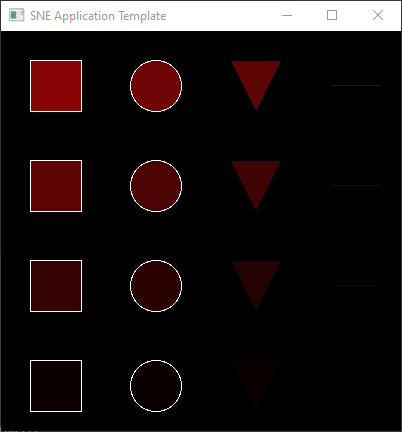
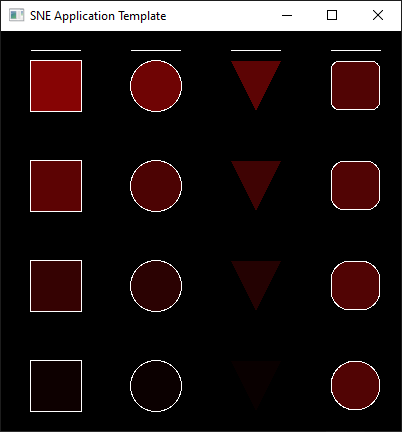
Shapes - Rounded Rectangle

diff --git a/sne-shapes.h b/sne-shapes.h
@@ -2,39 +2,6 @@
 #include "sne-pde.h"
 
 
-void fill(int r, int g, int b, int a) {
-	sf::Color color = sf::Color(r, g, b, a);
-	currentFill = color;
-}
-void fill(int r, int g, int b) {
-	sf::Color color = sf::Color(r, g, b, 255);
-	currentFill = color;
-}
-void fill(int greyValue) {
-	currentFill = sf::Color(greyValue, greyValue, greyValue, 255);
-}
-void no_fill() {
-	currentFill = sf::Color::Transparent;
-}
-
-void stroke(int r, int g, int b, int a) {
-	sf::Color color = sf::Color(r, g, b, a);
-	currentStroke = color;
-}
-void stroke(int r, int g, int b) {
-	sf::Color color = sf::Color(r, g, b, 255);
-	currentStroke = color;
-}
-void stroke(int greyValue) {
-	currentStroke = sf::Color(greyValue, greyValue, greyValue, 255);
-}
-void no_stroke() {
-	currentStroke = sf::Color::Transparent;
-}
-void stroke_weight(int stroke_weight) {
-	currentStrokeWeight = stroke_weight;
-}
-
 sf::RectangleShape r;
 void rect(double x, double y, double w, double h) {
 	r.setSize(sf::Vector2f(w, h));
@@ -44,6 +11,7 @@ void rect(double x, double y, double w, double h) {
 	r.setOutlineColor(currentStroke);
 	activeWindow->draw(r);
 }
+
 void rect(double x, double y, double w, double h, int alpha) {
 	r.setSize(sf::Vector2f(w, h));
 	r.setPosition(x, y);
@@ -52,6 +20,7 @@ void rect(double x, double y, double w, double h, int alpha) {
 	r.setOutlineColor(currentStroke);
 	activeWindow->draw(r);
 }
+
 
 sf::CircleShape c;
 void circle(double x, double y, double d) {
@@ -63,6 +32,7 @@ void circle(double x, double y, double d) {
 	c.setOutlineThickness(currentStrokeWeight);
 	activeWindow->draw(c);
 }
+
 void circle(double x, double y, double d, int alpha) {
 	c.setRadius(d / 2);
 	c.setPointCount(50);
@@ -73,8 +43,20 @@ void circle(double x, double y, double d, int alpha) {
 	activeWindow->draw(c);
 }
 
+
 vector<sf::Vertex> vertices;
+vector<sf::Vertex> vertices2;
 sf::Vertex v;
+
+sf::Vector2f vf(double x, double y) {
+	return sf::Vector2f(x, y);
+}
+
+void addVertex(double x, double y) {
+	v.position = vf(int(x), int(y));
+	vertices.push_back(v);
+}
+
 void triangle(double x1, double y1, double x2, double y2, double x3, double y3) {
 	vertices.clear();
 	v.color = currentFill;
@@ -89,6 +71,7 @@ void triangle(double x1, double y1, double x2, double y2, double x3, double y3) 
 	activeWindow->draw(&vertices[0], vertices.size(), sf::Triangles);
 	vertices.clear();
 }
+
 void triangle(double x1, double y1, double x2, double y2, double x3, double y3, int alpha) {
 	vertices.clear();
 	fill(currentFill.r, currentFill.g, currentFill.b, alpha);
@@ -104,6 +87,7 @@ void triangle(double x1, double y1, double x2, double y2, double x3, double y3, 
 	activeWindow->draw(&vertices[0], vertices.size(), sf::Triangles);
 	vertices.clear();
 }
+
 void line(double x1, double y1, double x2, double y2) {
 	vertices.clear();
 	v.color = currentFill;
@@ -116,6 +100,7 @@ void line(double x1, double y1, double x2, double y2) {
 	activeWindow->draw(&vertices[0], vertices.size(), sf::Lines);
 	vertices.clear();
 }
+
 void line(double x1, double y1, double x2, double y2, int alpha) {
 	vertices.clear();
 	fill(currentFill.r, currentFill.g, currentFill.b, alpha);
@@ -127,5 +112,87 @@ void line(double x1, double y1, double x2, double y2, int alpha) {
 	vertices.push_back(v);
 
 	activeWindow->draw(&vertices[0], vertices.size(), sf::Lines);
+	vertices.clear();
+}
+
+void roundedRectangleHelper(double x, double y, double w, double h, int r, int strokeWeight, int pointCount = 0) {
+	strokeWeight = abs(strokeWeight);
+	vertices.clear();
+	v.color = (strokeWeight != 0)? currentFill : currentStroke;
+	int cornerPointCount = (pointCount == 0)? 190 : pointCount;
+	double degreesShort = 0.18;
+	double pi = 2 * acos(0.0);
+
+	int xPos;
+	int yPos;
+	int cornerCenterX;
+	int cornerCenterY;
+	int centerX = int(x + (w / 2));
+	int centerY = int(y + (h / 2));
+	
+	// Center
+	addVertex(centerX, centerY);
+
+	// Top Right Corner
+	cornerCenterX = (x + w) - r;
+	cornerCenterY = (y + r);
+	for (double i = pi / 2 - degreesShort; i > degreesShort; i = i - (pi / 2) / cornerPointCount) {
+		xPos = cornerCenterX + abs(cos(i) * r);
+		yPos = cornerCenterY - abs(sin(i) * r);
+		addVertex(xPos - strokeWeight, yPos + strokeWeight);
+	}
+
+	// Bottom Right Corner
+	cornerCenterX = (x + w) - r;
+	cornerCenterY = (y + h) - r;
+	for (double i = 2 * pi - degreesShort; i > (3.0 / 2.0 * pi) + degreesShort; i = i - (pi / 2) / cornerPointCount) {
+		xPos = cornerCenterX + abs(cos(i) * r);
+		yPos = cornerCenterY + abs(sin(i) * r);
+		addVertex(xPos - strokeWeight, yPos - strokeWeight);
+	}
+
+	// Bottom Left Corner
+	cornerCenterX = x + r;
+	cornerCenterY = (y + h) - r;
+	for (double i = (3.0 / 2.0 * pi) - degreesShort; i > pi + degreesShort; i = i - (pi / 2) / cornerPointCount) {
+		xPos = cornerCenterX - abs(cos(i) * r);
+		yPos = cornerCenterY + abs(sin(i) * r);
+		addVertex(xPos + strokeWeight, yPos - strokeWeight);
+	}
+
+	// Top Left Corner
+	cornerCenterX = x + r;
+	cornerCenterY = y + r;
+	for (double i = pi - degreesShort; i > pi / 2 + degreesShort; i = i - (pi / 2) / cornerPointCount) {
+		xPos = cornerCenterX - abs(cos(i) * r);
+		yPos = cornerCenterY - abs(sin(i) * r);
+		addVertex(xPos + strokeWeight, yPos + strokeWeight);
+	}
+
+	// Top Right Corner
+	cornerCenterX = (x + w) - r;
+	cornerCenterY = (y + r);
+	xPos = cornerCenterX + abs(cos(pi / 2 - degreesShort) * r);
+	yPos = cornerCenterY - abs(sin(pi / 2 - degreesShort) * r);
+	addVertex(xPos - strokeWeight, yPos + strokeWeight);
+}
+
+void roundedRectangle(double x, double y, double w, double h, int r, int pointCount = 0) {
+	int shortestSide = (w < h) ? w : h;
+	r = (r * 2 < shortestSide) ? r : shortestSide / 2;
+
+	// Stroke outline
+	roundedRectangleHelper(x, y, w, h, r, 0, pointCount);
+	activeWindow->draw(&vertices[0], vertices.size(), sf::TriangleFan);
+
+	if (currentStroke == currentFill) {
+		vertices.clear();
+		return;
+	}
+
+	// Inner rounded rectangle
+	roundedRectangleHelper(x, y, w, h, r - abs(currentStrokeWeight), currentStrokeWeight, pointCount);
+	activeWindow->draw(&vertices[0], vertices.size(), sf::TriangleFan);
+
 	vertices.clear();
 }

diff --git a/sne-image.h b/sne-image.h
@@ -37,9 +37,9 @@ void image(string imgPath, double x, double y, double new_width, double new_heig
 			sprite.setTexture(tempTexture);
 			loadedSprites[imgPath] = sprite;
 
-			double scale_w = (float)(new_width) / sprite.getTextureRect().getSize().x;
-			double scale_h = (float)(new_height) / sprite.getTextureRect().getSize().y;
-			sprite.setScale(sf::Vector2f(scale_w, scale_h));
+			double scaleW = (float)(new_width) / sprite.getTextureRect().getSize().x;
+			double scaleH = (float)(new_height) / sprite.getTextureRect().getSize().y;
+			sprite.setScale(sf::Vector2f(scaleW, scaleH));
 
 			activeWindow->draw(sprite);
 		}
@@ -48,9 +48,9 @@ void image(string imgPath, double x, double y, double new_width, double new_heig
 		sprite = loadedSprites[imgPath];
 		sprite.setPosition(sf::Vector2f(int(x), int(y)));
 
-		double scale_w = (float)(new_width) / sprite.getTextureRect().getSize().x;
-		double scale_h = (float)(new_height) / sprite.getTextureRect().getSize().y;
-		sprite.setScale(sf::Vector2f(scale_w, scale_h));
+		double scaleW = (float)(new_width) / sprite.getTextureRect().getSize().x;
+		double scaleH = (float)(new_height) / sprite.getTextureRect().getSize().y;
+		sprite.setScale(sf::Vector2f(scaleW, scaleH));
 
 		activeWindow->draw(sprite);
 	}
@@ -65,14 +65,14 @@ void image(sf::Image* img, double x, double y) {
 }
 
 // Draws an sf::image object to buffer with given width and height. Images scale best by factors of two.
-void image(sf::Image* img, double x, double y, double new_width, double new_height) {
+void image(sf::Image* img, double x, double y, double newWidth, double newHeight) {
 	sprite.setPosition(sf::Vector2f(int(x), int(y)));
 	tempTexture.loadFromImage(*img);
 	sprite.setTexture(tempTexture);
 
-	double scale_w = (float)(new_width) / img->getSize().x;
-	double scale_h = (float)(new_height) / img->getSize().y;
-	sprite.setScale(sf::Vector2f(scale_w, scale_h));
+	double scaleW = (float)(newWidth) / img->getSize().x;
+	double scaleH = (float)(newHeight) / img->getSize().y;
+	sprite.setScale(sf::Vector2f(scaleW, scaleH));
 
 	activeWindow->draw(sprite);
 }

diff --git a/sne-demos.h b/sne-demos.h
@@ -6,6 +6,14 @@
 
 void primativeShapesDemo() {
     stroke(255);
+    int alpha = 255;
+
+
+    line(30, 20, 80, 20);
+    line(130, 20, 180, 20);
+    line(230, 20, 280, 20);
+    line(330, 20, 380, 20);
+
 
     fill(134, 4, 4);
     rect(30, 30, 50, 50);
@@ -17,9 +25,10 @@ void primativeShapesDemo() {
     triangle(230, 30, 280, 30, 255, 80);
 
     fill(81, 4, 4);
-    line(330, 55, 380, 55);
+    roundedRectangle(330, 30, 50, 50, 10);
 
-    int alpha = 175;
+
+    alpha = 175;
     fill(134, 4, 4);
     rect(30, 130, 50, 50, alpha);
 
@@ -30,7 +39,7 @@ void primativeShapesDemo() {
     triangle(230, 130, 280, 130, 255, 180, alpha);
 
     fill(81, 4, 4);
-    line(330, 155, 380, 155, alpha);
+    roundedRectangle(330, 130, 50, 50, 15);
 
 
     alpha = 100;
@@ -44,7 +53,7 @@ void primativeShapesDemo() {
     triangle(230, 230, 280, 230, 255, 280, alpha);
 
     fill(81, 4, 4);
-    line(330, 255, 380, 255, alpha);
+    roundedRectangle(330, 230, 50, 50, 20);
 
 
     alpha = 25;
@@ -58,7 +67,8 @@ void primativeShapesDemo() {
     triangle(230, 330, 280, 330, 255, 380, alpha);
 
     fill(81, 4, 4);
-    line(330, 355, 380, 355, alpha);
+    roundedRectangle(330, 330, 50, 50, 60);
+
 
     activeWindow->display();
 }

diff --git a/sne-pde.h b/sne-pde.h
@@ -16,3 +16,44 @@ sf::RenderWindow* activeWindow = &mainWindow;
 sf::Color currentFill = sf::Color(255, 255, 255, 255);
 sf::Color currentStroke = sf::Color(0, 0, 0, 255);
 int currentStrokeWeight = 1;
+
+
+void fill(int r, int g, int b, int a) {
+	sf::Color color = sf::Color(r, g, b, a);
+	currentFill = color;
+}
+
+void fill(int r, int g, int b) {
+	sf::Color color = sf::Color(r, g, b, 255);
+	currentFill = color;
+}
+
+void fill(int greyValue) {
+	currentFill = sf::Color(greyValue, greyValue, greyValue, 255);
+}
+
+void noFill() {
+	currentFill = sf::Color::Transparent;
+}
+
+void stroke(int r, int g, int b, int a) {
+	sf::Color color = sf::Color(r, g, b, a);
+	currentStroke = color;
+}
+
+void stroke(int r, int g, int b) {
+	sf::Color color = sf::Color(r, g, b, 255);
+	currentStroke = color;
+}
+
+void stroke(int greyValue) {
+	currentStroke = sf::Color(greyValue, greyValue, greyValue, 255);
+}
+
+void noStroke() {
+	currentStroke = sf::Color::Transparent;
+}
+
+void strokeWeight(int strokeWeight) {
+	currentStrokeWeight = -1 * strokeWeight;
+}

diff --git a/sne-pde-driver.cpp b/sne-pde-driver.cpp
@@ -13,9 +13,9 @@ void sneSettings() {
 int main() {
     sneSettings();
 
-    //primativeShapesDemo();
+    primativeShapesDemo();
     //textDemo();
-    imageDemo();
+    //imageDemo();
 
     while (activeWindow->isOpen()) {
         sf::Event e;
